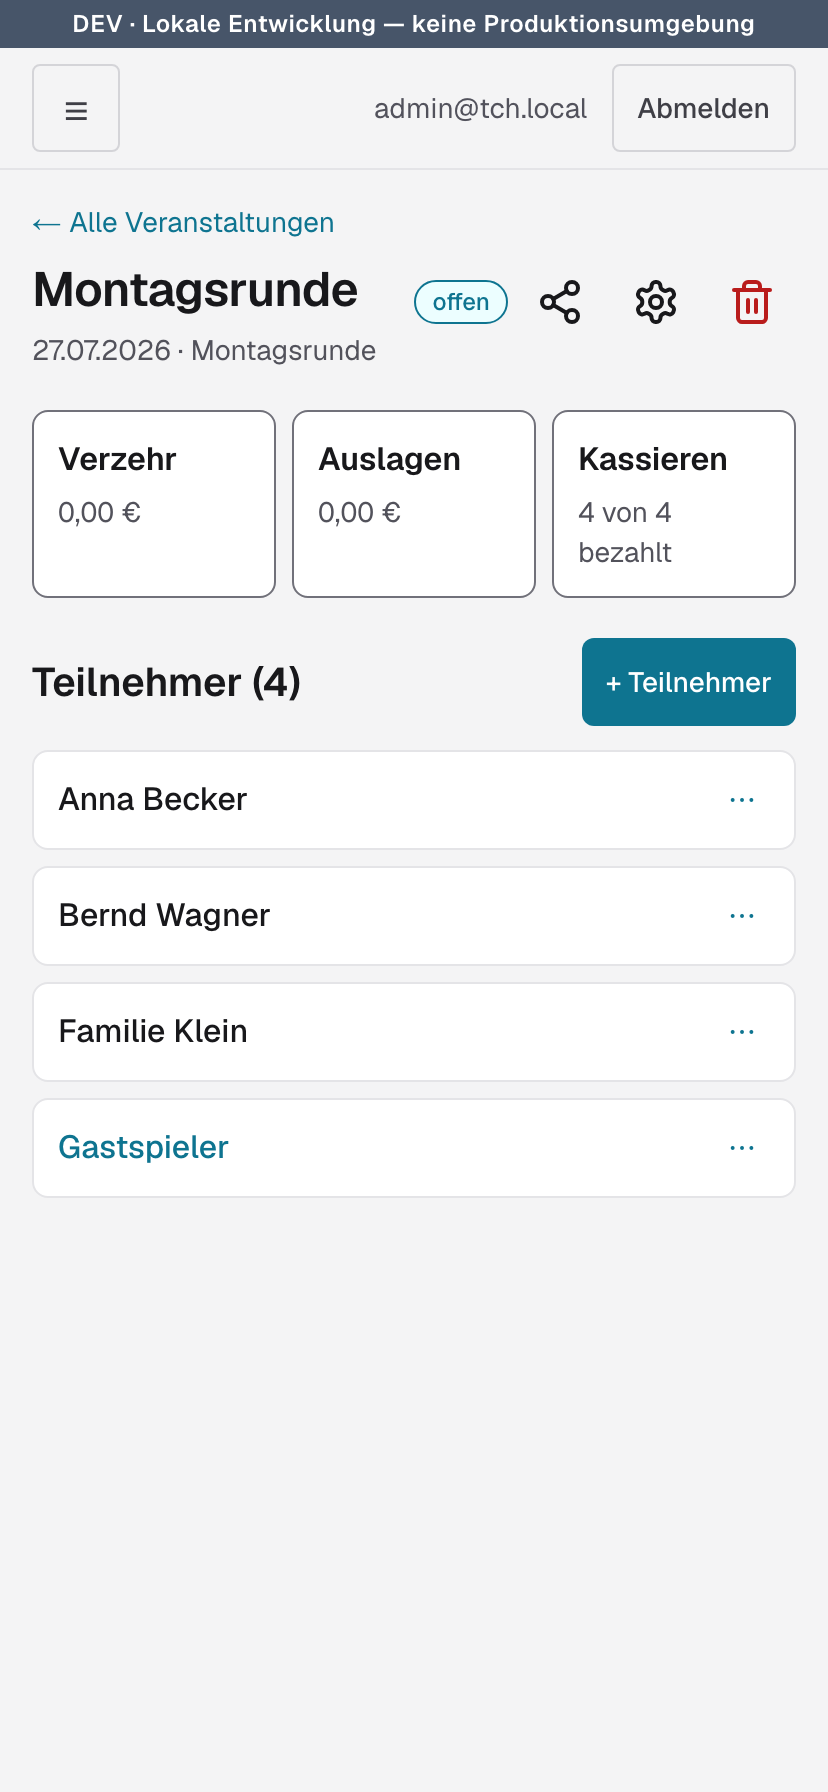
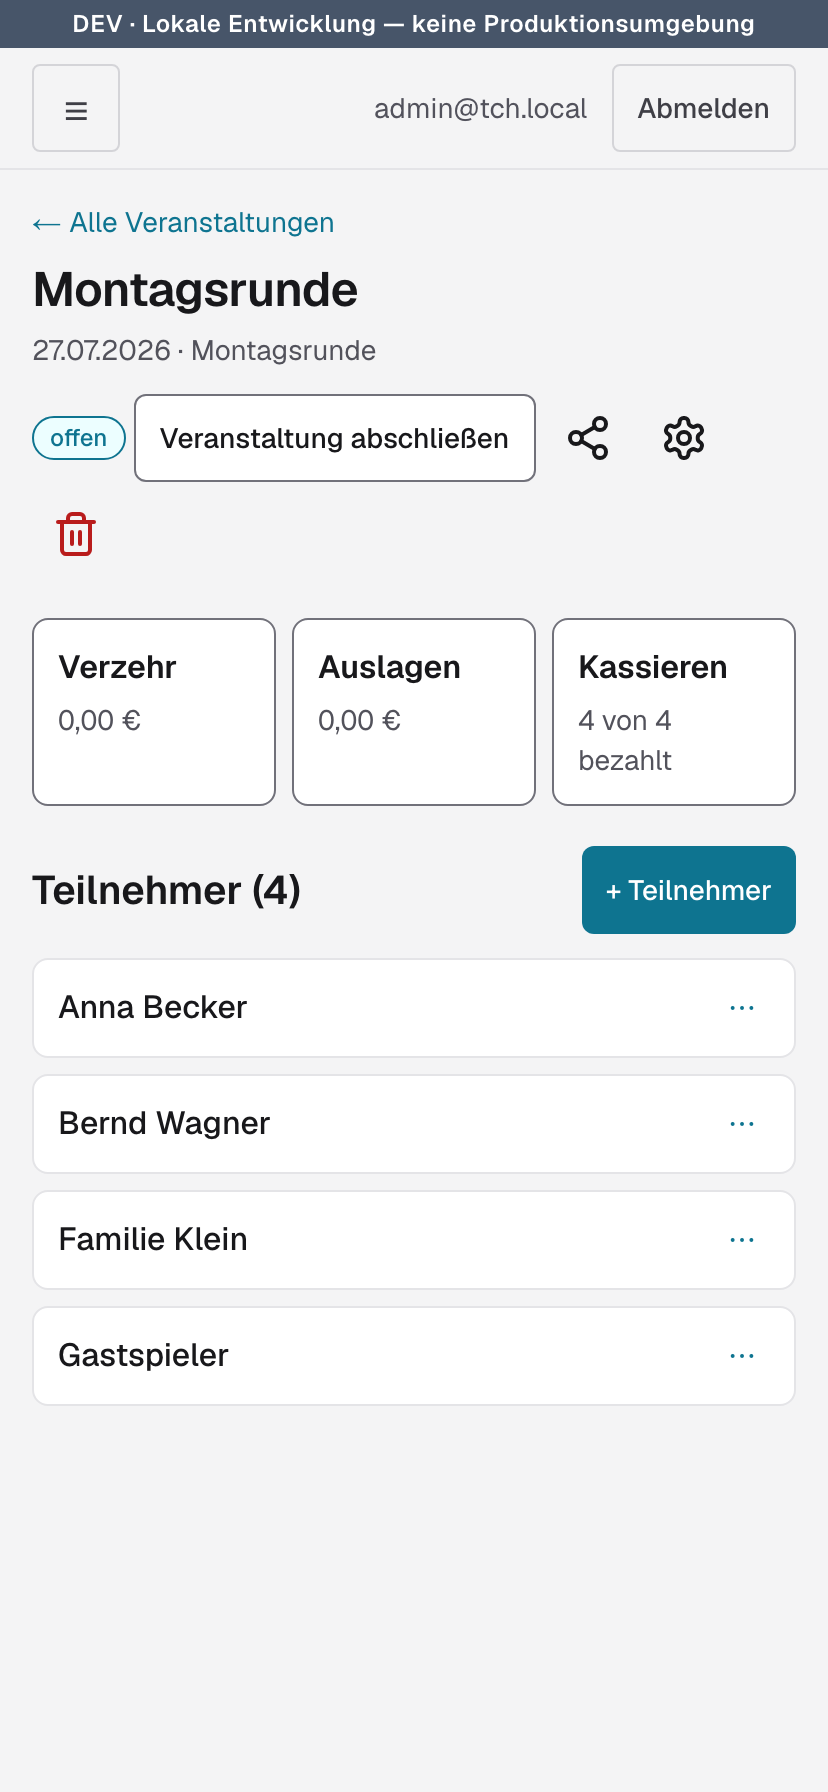
fix: adr-056 umnummerieren, kopf nach #371 umbrechen lassen (#391)
Review-Iteration 4: ADR dieses PRs von 055 auf 056 (Kollision mit #371),
Spec/ADR auf den Kopf mit Abschluss-Aktion gebracht. Der AK16-E2E deckte
37 px Ueberstand bei 375 px auf: PageHeader-Aktionsbereich jetzt max-w-full.
Bild 05 und Anleitung nachgezogen.

diff --git a/app/veranstaltung/[id]/page.tsx b/app/veranstaltung/[id]/page.tsx
@@ -24,12 +24,12 @@ import { VeranstaltungMetaForm } from "./VeranstaltungMetaForm";
 import { VeranstaltungLoeschen } from "./VeranstaltungLoeschen";
 import { ZugangTeilen } from "./ZugangTeilen";
 
-// Detailansicht einer Veranstaltung (spec-369, spec-391, ADR-053 D6, ADR-055): reine Komposition
+// Detailansicht einer Veranstaltung (spec-369, spec-391, ADR-053 D6, ADR-056): reine Komposition
 // aus Kopf → Arbeitsschritt-Kacheln → Teilnehmerliste. Teilen, Einstellungen und Löschen sind
 // Symbol-Schaltflächen im Seitenkopf, Abschließen/Wieder öffnen steht daneben (spec-371). Nur
 // Veranstalter; alle Schreibwege prüfen Rolle und Status zusätzlich serverseitig in den Actions.
 // Abgeschlossene Veranstaltungen sind schreibgeschützt: Bericht statt Kennzahlen, keine
-// Kopfaktionen.
+// Kopfaktionen außer „Wieder öffnen" (spec-371).
 export default async function VeranstaltungDetailPage({
   params,
 }: {
@@ -149,7 +149,8 @@ function OffeneVeranstaltung({
 }
 
 // Schreibgeschützt (AK6/AK7): Bericht über den Kacheln, Kacheln ohne Kennzahl – deren Daten
-// werden gar nicht erst geladen (ADR-053 D4) –, keine Kopfaktionen (spec-391 AK14).
+// werden gar nicht erst geladen (ADR-053 D4) –, keine Kopfaktionen außer „Wieder öffnen"
+// (spec-391 AK14, spec-371).
 function AbgeschlosseneVeranstaltung({
   veranstaltung,
   zeilen,
@@ -169,7 +170,7 @@ function AbgeschlosseneVeranstaltung({
   );
 }
 
-// Welche Kopfaktionen erscheinen, entscheidet der Aufrufer je Zustand (ADR-055 D5); der Rahmen
+// Welche Kopfaktionen erscheinen, entscheidet der Aufrufer je Zustand (ADR-056 D5); der Rahmen
 // stellt sie nur hinter das Status-Badge.
 function DetailRahmen({
   veranstaltung,
@@ -190,7 +191,8 @@ function DetailRahmen({
         back={{ href: "/veranstaltung", label: "Alle Veranstaltungen" }}
         meta={`${formatDatum(veranstaltung.datum)} · ${KASSE_LABEL[veranstaltung.kasse as Kasse]}`}
         action={
-          // Badge und Aktionen brechen gemeinsam um (spec-371 AK24) – ohne Änderung am PageHeader.
+          // Badge und Aktionen brechen gemeinsam um (spec-371 AK24, spec-391 AK16); das setzt den
+          // auf die Zeilenbreite begrenzten Aktionsbereich im PageHeader voraus (ADR-056 D5).
           <div className="flex flex-wrap items-center gap-1">
             <Badge tone={offen ? "akzent" : "neutral"}>{STATUS_LABEL[veranstaltung.status]}</Badge>
             {aktion}

diff --git a/e2e/veranstaltung-bearbeiten-loeschen.spec.ts b/e2e/veranstaltung-bearbeiten-loeschen.spec.ts
@@ -118,7 +118,7 @@ test.describe("Veranstaltung bearbeiten und löschen (#352)", () => {
     await expect(page.getByText("Änderungen gespeichert.")).toBeVisible();
 
     // Die Seite selbst zeigt den neuen Stand – nicht nur das Formular (revalidatePath wirkt). Der
-    // Dialog bleibt dabei offen (ADR-055 D3, spec-391 AK7); der Kopf dahinter ist aktualisiert.
+    // Dialog bleibt dabei offen (ADR-056 D3, spec-391 AK7); der Kopf dahinter ist aktualisiert.
     await expect(metaForm(page)).toBeVisible();
     await expect(page.getByRole("heading", { level: 1, name: neu })).toBeVisible();
     await expect(page.getByText("21.09.2026 · Vereinskasse", { exact: true })).toBeVisible();
@@ -206,7 +206,7 @@ test.describe("Veranstaltung bearbeiten und löschen (#352)", () => {
     await page.goto(detailPfad);
     await oeffneLoeschDialog(page);
     await page.getByRole("button", { name: "Endgültig löschen" }).click();
-    // spec-391 AK12: die Ablehnung steht im Bestätigungsdialog (ADR-055 D4).
+    // spec-391 AK12: die Ablehnung steht im Bestätigungsdialog (ADR-056 D4).
     await expect(
       page
         .getByRole("dialog", { name: "Veranstaltung löschen?" })

diff --git a/app/veranstaltung/[id]/VeranstaltungLoeschen.test.tsx b/app/veranstaltung/[id]/VeranstaltungLoeschen.test.tsx
@@ -3,7 +3,7 @@ import { act, fireEvent, render, screen } from "@testing-library/react";
 import type { VeranstaltungFormState } from "../actions";
 
 // Externe Grenze: Server Action aus derselben Feature-Schicht. `useActionState` bleibt echt –
-// der Zustand je Öffnungs-Zyklus (`key`) ist genau das zu prüfende Verhalten (ADR-055 D4).
+// der Zustand je Öffnungs-Zyklus (`key`) ist genau das zu prüfende Verhalten (ADR-056 D4).
 vi.mock("../actions", () => ({ deleteVeranstaltungAction: vi.fn() }));
 
 import { deleteVeranstaltungAction } from "../actions";
@@ -125,7 +125,7 @@ describe("VeranstaltungLoeschen – Bestätigen (spec-391 AK12)", () => {
 
   it("should_keepDialogOpenShowingRejection_when_serverRejects", async () => {
     // AK12 / #352 AK5/AK6/AK12: die Ablehnung steht dort, wo der Nutzer gerade steht – im
-    // offenen Bestätigungsdialog (ADR-055 D4).
+    // offenen Bestätigungsdialog (ADR-056 D4).
     const fehler = "Löschen nicht möglich: für diese Veranstaltung ist bereits Verzehr erfasst.";
     deleteMock.mockResolvedValue({ error: fehler });
     render(<VeranstaltungLoeschen {...props} />);

diff --git a/app/components/ui/IconButton.tsx b/app/components/ui/IconButton.tsx
@@ -2,14 +2,14 @@ import type { ComponentProps, ReactNode } from "react";
 import { BUTTON_BASE_CLASSES } from "./Button";
 import { joinClasses } from "./joinClasses";
 
-// Route-neutraler Baustein (ADR-055 D2): Schaltfläche, die nur ein Symbol zeigt. Ohne sichtbaren
+// Route-neutraler Baustein (ADR-056 D2): Schaltfläche, die nur ein Symbol zeigt. Ohne sichtbaren
 // Text ist das `label` der einzige zugängliche Name – deshalb Pflicht-Prop statt optionalem
 // `aria-label`: eine Symbol-Schaltfläche ohne Namen wird so zum Typfehler.
 
 export type IconButtonTone = "neutral" | "danger";
 
 // Bewusst keine gefüllte Gefahr-Fläche: im Seitenkopf stünde sonst ein roter Block neben dem
-// Status, lauter als die eigentliche Arbeit (ADR-055 D2). Der Ton färbt nur das Symbol. Neutral
+// Status, lauter als die eigentliche Arbeit (ADR-056 D2). Der Ton färbt nur das Symbol. Neutral
 // hebt beim Hover auf `line-subtle` ab, weil der Seitenkopf selbst auf `background` steht.
 const TONE_CLASSES: Record<IconButtonTone, string> = {
   neutral: "text-foreground not-disabled:hover:bg-line-subtle",

diff --git a/app/veranstaltung/[id]/KopfDialog.tsx b/app/veranstaltung/[id]/KopfDialog.tsx
@@ -5,13 +5,13 @@ import { Button } from "@/app/components/ui/Button";
 import { Dialog } from "@/app/components/ui/Dialog";
 import { IconButton } from "@/app/components/ui/IconButton";
 
-// Client-Hülle für die Dialoge im Seitenkopf der Detailseite (spec-391, ADR-055 D3): Symbol-
+// Client-Hülle für die Dialoge im Seitenkopf der Detailseite (spec-391, ADR-056 D3): Symbol-
 // Schaltfläche öffnet einen Dialog, dessen Titel ihr Name ist. Genutzt für „Link & QR teilen" und
 // „Einstellungen". Der Inhalt kommt als `children` – beim Teilen aus der Server Component
 // `ZugangTeilen`, damit `qrcode` aus dem Client-Bundle bleibt (ADR-053 D5, #307).
 //
 // Nach erfolgreichem Speichern bleibt der Dialog bewusst offen: die Formulare zeigen ihre
-// Erfolgsmeldung darin, `revalidatePath` aktualisiert die Seite dahinter (ADR-055 D3).
+// Erfolgsmeldung darin, `revalidatePath` aktualisiert die Seite dahinter (ADR-056 D3).
 export function KopfDialog({
   label,
   icon,

diff --git a/app/veranstaltung/KatalogWechsel.test.tsx b/app/veranstaltung/KatalogWechsel.test.tsx
@@ -91,7 +91,7 @@ describe("KatalogWechsel", () => {
     });
     render(<KatalogWechsel id="v-1" catalogId="kat-a" kataloge={kataloge} />);
 
-    // Im Dialog „Einstellungen" (spec-391, ADR-055 D6) als Fehler-`Notice` angesagt.
+    // Im Dialog „Einstellungen" (spec-391, ADR-056 D6) als Fehler-`Notice` angesagt.
     expect(screen.getByRole("alert")).toHaveTextContent(
       "Katalogwechsel nicht möglich: für diese Veranstaltung ist bereits Verzehr erfasst.",
     );
@@ -114,7 +114,7 @@ describe("KatalogWechsel", () => {
   });
 
   it("should_offerSubmitButtonInSecondaryStyle_when_rendered", () => {
-    // ADR-055 D6: Baustein `Button` statt Rohklassen – Absenden explizit `type="submit"`.
+    // ADR-056 D6: Baustein `Button` statt Rohklassen – Absenden explizit `type="submit"`.
     render(<KatalogWechsel id="v-1" catalogId="kat-a" kataloge={kataloge} />);
 
     const button = screen.getByRole("button", { name: "Katalog wechseln" });

diff --git a/e2e/veranstaltung-detailseite.spec.ts b/e2e/veranstaltung-detailseite.spec.ts
@@ -287,8 +287,12 @@ test.describe("Veranstaltungs-Detailseite neu geordnet (#369)", () => {
     );
     expect(ueberstand).toBe(0);
 
-    // AK2/AK3/AK16: Badge + drei Symbol-Schaltflächen vollständig sichtbar, je ≥ 44 × 44 px.
+    // AK2/AK3/AK16: Badge, Abschluss-Aktion und drei Symbol-Schaltflächen vollständig sichtbar,
+    // die Symbole je ≥ 44 × 44 px.
     await expect(seitenkopf(page).getByText("offen", { exact: true })).toBeInViewport({ ratio: 1 });
+    // Die Abschluss-Aktion aus #371 steht mit im Kopf (spec-391 Q5, spec-371 AK24) – eine
+    // Text-Schaltfläche, daher nur Sichtbarkeit, keine 44-px-Breitenprüfung.
+    await expect(kopfAktion(page, "Veranstaltung abschließen")).toBeInViewport({ ratio: 1 });
     for (const name of ["Link & QR teilen", "Einstellungen", "Veranstaltung löschen"]) {
       const knopf = kopfAktion(page, name);
       await expect(knopf).toBeInViewport({ ratio: 1 });

diff --git a/app/veranstaltung/[id]/VeranstaltungMetaForm.test.tsx b/app/veranstaltung/[id]/VeranstaltungMetaForm.test.tsx
@@ -82,7 +82,7 @@ describe("VeranstaltungMetaForm", () => {
   });
 
   it("should_showSubheadingBelowDialogTitle_when_rendered", () => {
-    // ADR-055 D6: im Dialog „Einstellungen" ist dessen Titel die `h2` – das Formular trägt
+    // ADR-056 D6: im Dialog „Einstellungen" ist dessen Titel die `h2` – das Formular trägt
     // eine Zwischenüberschrift eine Ebene tiefer.
     render(<VeranstaltungMetaForm {...props} />);
 
@@ -110,7 +110,7 @@ describe("VeranstaltungMetaForm", () => {
   });
 
   it("should_offerSubmitButtonInSecondaryStyle_when_rendered", () => {
-    // ADR-055 D6: Baustein `Button` statt Rohklassen – Absenden explizit `type="submit"`.
+    // ADR-056 D6: Baustein `Button` statt Rohklassen – Absenden explizit `type="submit"`.
     render(<VeranstaltungMetaForm {...props} />);
 
     const button = screen.getByRole("button", { name: "Änderungen speichern" });

diff --git a/app/components/ui/IconButton.test.tsx b/app/components/ui/IconButton.test.tsx
@@ -7,7 +7,7 @@ function Symbol() {
   return <svg data-testid="symbol" aria-hidden="true" />;
 }
 
-describe("IconButton (ADR-055 D2, spec-391 AK3)", () => {
+describe("IconButton (ADR-056 D2, spec-391 AK3)", () => {
   it("should_exposeLabelAsAccessibleNameAndTooltip_when_rendered", () => {
     render(<IconButton label="Einstellungen" icon={<Symbol />} />);
 
@@ -59,7 +59,7 @@ describe("IconButton (ADR-055 D2, spec-391 AK3)", () => {
 
   it("should_useDangerToken_when_toneDanger", () => {
     // AK3: der Papierkorb ist als zerstörerische Aktion abgesetzt – Gefahr-Token als Symbolfarbe,
-    // bewusst keine gefüllte Fläche (ADR-055 D2).
+    // bewusst keine gefüllte Fläche (ADR-056 D2).
     render(<IconButton label="Veranstaltung löschen" tone="danger" icon={<Symbol />} />);
 
     const button = screen.getByRole("button");

diff --git a/app/components/ui/PageHeader.test.tsx b/app/components/ui/PageHeader.test.tsx
@@ -45,6 +45,15 @@ describe("PageHeader (AK2.11)", () => {
     expect(heading).toHaveClass("min-w-0");
   });
 
+  // spec-391 AK16/spec-371 AK24: ohne Breitengrenze wird der Aktionsbereich so breit wie sein
+  // Inhalt, und eine umbrechende Aktionsgruppe ragt bei 375 px über den Rand, statt umzubrechen.
+  it("should_limitActionToRowWidth_when_actionGiven", () => {
+    render(<PageHeader title="Katalog" action={<button type="button">Anlegen</button>} />);
+
+    const aktionsBereich = screen.getByRole("button", { name: "Anlegen" }).parentElement;
+    expect(aktionsBereich).toHaveClass("max-w-full");
+  });
+
   it("should_appendLayoutClassName_when_classNameGiven", () => {
     const { container } = render(<PageHeader title="Katalog" className="mb-4" />);
 

diff --git a/app/veranstaltung/[id]/VeranstaltungLoeschen.tsx b/app/veranstaltung/[id]/VeranstaltungLoeschen.tsx
@@ -7,7 +7,7 @@ import { PapierkorbIcon } from "@/app/components/ui/icons";
 import { deleteVeranstaltungAction } from "../actions";
 
 // Endgültiges Löschen einer noch offenen, datierten Veranstaltung (#352 AK4/AK8) – ausgelöst über
-// den Papierkorb im Seitenkopf (spec-391 AK11, ADR-055 D4). Der Bestätigungsdialog ist Pflicht
+// den Papierkorb im Seitenkopf (spec-391 AK11, ADR-056 D4). Der Bestätigungsdialog ist Pflicht
 // (spec-352, „Gesetzte Entscheidungen"). Die serverseitige Ablehnung (Verzehr/Kassiert/Auslage
 // erfasst) erscheint IM Dialog, weil der Nutzer nach dem Absenden dort steht. Bei Erfolg leitet die
 // Action selbst zur Übersicht (AK9), dieser Zustand wird hier also nie gerendert.

diff --git a/app/veranstaltung/[id]/ZugangTeilen.tsx b/app/veranstaltung/[id]/ZugangTeilen.tsx
@@ -3,7 +3,7 @@ import { absoluteUrl } from "@/lib/base-url";
 import { LinkKopieren } from "./LinkKopieren";
 
 // Inhalt von „Link & QR teilen" (F7, #54, ADR-034 D5/D6; seit #369 in einem Dialog, ADR-053 D5,
-// seit #391 hinter dem Teilen-Symbol im Seitenkopf über `KopfDialog`, ADR-055 D3): der
+// seit #391 hinter dem Teilen-Symbol im Seitenkopf über `KopfDialog`, ADR-056 D3): der
 // login-freie Selbstbedienungs-Link zu `theke/[token]` als kopierbarer Text und als QR-Code. Der
 // QR wird server-seitig als SVG-String erzeugt (`qrcode`) und inline gerendert – null
 // Client-Bundle. `qrcode` wird bewusst nur hier (server-seitig) importiert, nie im Client. Wird
